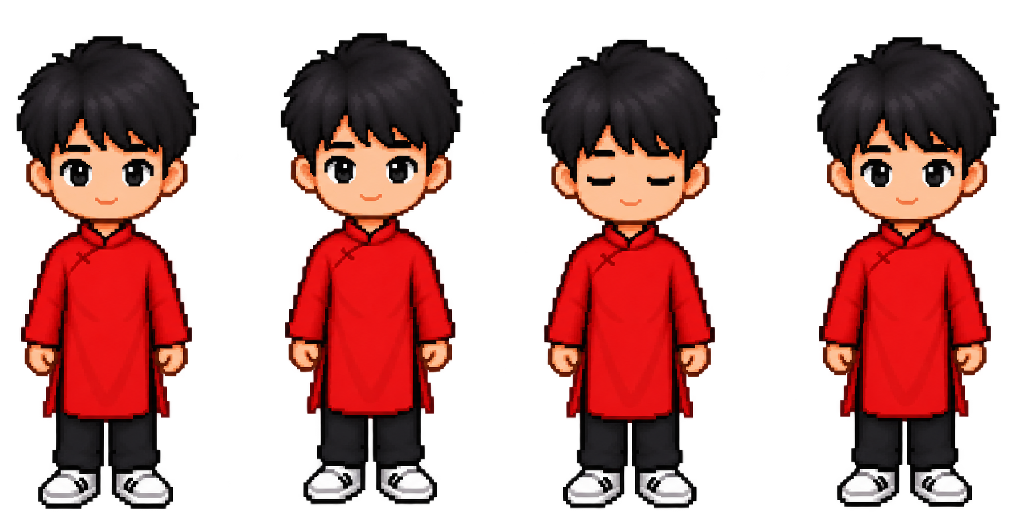
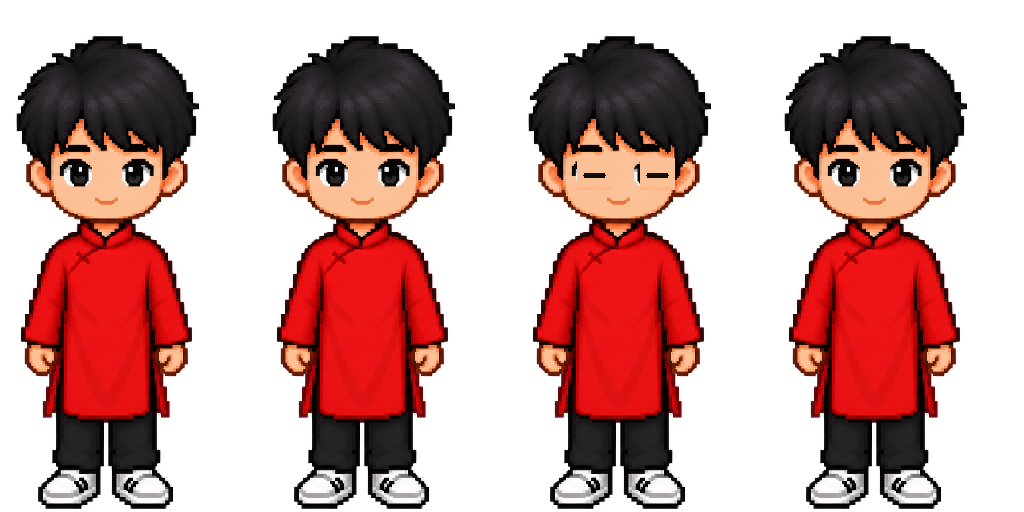
chore: update animation preview files

Changed region(s): [[0.75, 0.0625, 1.0, 1.0], [0.5, 0.0625, 0.7188, 1.0], [0.25, 0.0625, 0.4688, 1.0]]

diff --git a/src/components/character/PixelCharacter.tsx b/src/components/character/PixelCharacter.tsx
@@ -2,6 +2,7 @@ import React from 'react';
 
 export type CharacterState =
   | 'idle'
+  | 'wave'
   | 'happy'
   | 'love'
   | 'hungry'
@@ -14,7 +15,10 @@ interface PixelCharacterProps {
   className?: string;
 }
 
-const DUONG_STATE_IMAGES: Record<Exclude<CharacterState, 'idle'>, string> = {
+const DUONG_STATE_IMAGES: Record<
+  Exclude<CharacterState, 'idle' | 'wave'>,
+  string
+> = {
   happy: '/characters/male_happy.png',
   love: '/characters/male_love.png',
   hungry: '/characters/male_hungry.png',
@@ -24,40 +28,107 @@ const DUONG_STATE_IMAGES: Record<Exclude<CharacterState, 'idle'>, string> = {
 
 const IdleSprite: React.FC<{ name: string }> = ({ name }) => {
   return (
-    <div className="relative h-full w-full flex items-end justify-center overflow-hidden">
+    <div
+      className="relative h-full max-h-full overflow-hidden shrink-0"
+      style={{
+        aspectRatio: '1 / 2',
+        maxWidth: '100%',
+      }}
+      role="img"
+      aria-label={`${name} pixel character`}
+    >
       <style>{`
-        @keyframes duong-idle-sprite {
-          0%, 42% { transform: translateX(0); }
-          48%, 56% { transform: translateX(-25%); }
-          62%, 70% { transform: translateX(-50%); }
-          76%, 100% { transform: translateX(-75%); }
+        @keyframes duong-idle-blink {
+          0%, 78% {
+            background-position: 0% 50%;
+          }
+          79%, 84% {
+            background-position: 66.6666667% 50%;
+          }
+          85%, 100% {
+            background-position: 0% 50%;
+          }
         }
 
-        .duong-idle-strip {
-          width: 400%;
+        .duong-idle-frame {
+          width: 100%;
           height: 100%;
-          max-width: none;
-          object-fit: fill;
+          background-image: url('/characters/duong_idle_strip.png');
+          background-repeat: no-repeat;
+          background-size: 400% 100%;
+          background-position: 0% 50%;
           image-rendering: pixelated;
-          animation: duong-idle-sprite 2.6s steps(1, end) infinite;
-          will-change: transform;
+          animation: duong-idle-blink 3.2s steps(1, end) infinite;
+          will-change: background-position;
         }
 
         @media (prefers-reduced-motion: reduce) {
-          .duong-idle-strip {
+          .duong-idle-frame {
             animation: none;
+            background-position: 0% 50%;
           }
         }
       `}</style>
 
-      <div className="h-full w-full overflow-hidden">
-        <img
-          src="/characters/duong_idle_strip.png"
-          alt={`${name} pixel character`}
-          draggable={false}
-          className="duong-idle-strip select-none pointer-events-none"
-        />
-      </div>
+      <div className="duong-idle-frame" />
+    </div>
+  );
+};
+
+const WaveSprite: React.FC<{ name: string }> = ({ name }) => {
+  return (
+    <div
+      className="relative h-full max-h-full overflow-hidden shrink-0"
+      style={{
+        aspectRatio: '1 / 2',
+        maxWidth: '100%',
+      }}
+      role="img"
+      aria-label={`${name} đang vẫy chào`}
+    >
+      <style>{`
+        @keyframes duong-wave-frames {
+          0%, 10% {
+            background-position: 0% 50%;
+          }
+          11%, 27% {
+            background-position: 20% 50%;
+          }
+          28%, 44% {
+            background-position: 40% 50%;
+          }
+          45%, 62% {
+            background-position: 60% 50%;
+          }
+          63%, 80% {
+            background-position: 80% 50%;
+          }
+          81%, 100% {
+            background-position: 100% 50%;
+          }
+        }
+
+        .duong-wave-frame {
+          width: 100%;
+          height: 100%;
+          background-image: url('/characters/duong_wave_strip.png');
+          background-repeat: no-repeat;
+          background-size: 600% 100%;
+          background-position: 0% 50%;
+          image-rendering: pixelated;
+          animation: duong-wave-frames 2.05s steps(1, end) 1 forwards;
+          will-change: background-position;
+        }
+
+        @media (prefers-reduced-motion: reduce) {
+          .duong-wave-frame {
+            animation: none;
+            background-position: 40% 50%;
+          }
+        }
+      `}</style>
+
+      <div className="duong-wave-frame" />
     </div>
   );
 };
@@ -67,20 +138,24 @@ export const PixelCharacter: React.FC<PixelCharacterProps> = ({
   name = 'Dương',
   className = '',
 }) => {
-  if (state === 'idle') {
+  if (state === 'idle' || state === 'wave') {
     return (
       <div
-        className={`relative flex items-end justify-center ${className}`}
-        aria-label={`${name} - idle`}
+        className={`relative flex items-end justify-center overflow-hidden ${className}`}
+        aria-label={`${name} - ${state}`}
       >
-        <IdleSprite name={name} />
+        {state === 'wave' ? (
+          <WaveSprite name={name} />
+        ) : (
+          <IdleSprite name={name} />
+        )}
       </div>
     );
   }
 
   return (
     <div
-      className={`relative flex items-end justify-center ${className}`}
+      className={`relative flex items-end justify-center overflow-hidden ${className}`}
       aria-label={`${name} - ${state}`}
     >
       <img

diff --git a/src/components/character/InteractivePixelCharacter.tsx b/src/components/character/InteractivePixelCharacter.tsx
@@ -7,8 +7,11 @@ interface InteractivePixelCharacterProps {
 }
 
 const STORAGE_KEY = 'us:duong-pixel-character:v1';
+const WELCOME_SESSION_KEY = 'us:duong-wave-welcome:v1';
 const HUNGRY_AFTER_MS = 6 * 60 * 60 * 1000;
 const REACTION_DURATION_MS = 4200;
+const WELCOME_DELAY_MS = 350;
+const WELCOME_ANIMATION_MS = 2150;
 
 interface StoredCharacterState {
   lastFedAt?: number;
@@ -33,7 +36,7 @@ const writeStoredState = (state: StoredCharacterState) => {
   try {
     window.localStorage.setItem(STORAGE_KEY, JSON.stringify(state));
   } catch {
-    // localStorage is only a lightweight V1 persistence layer.
+    // localStorage chỉ là persistence nhẹ cho V1.
   }
 };
 
@@ -57,15 +60,6 @@ const getAutomaticState = (
   return 'idle';
 };
 
-const STATE_COPY: Record<CharacterState, string> = {
-  idle: 'Đang chill thôi ✨',
-  happy: 'No bụng rồi, vui ghê!',
-  love: 'Đang ngập trong tình yêu ❤',
-  hungry: 'Hình như đang đói...',
-  sleepy: 'Muộn rồi, buồn ngủ quá...',
-  sad: 'Hôm nay hơi buồn một chút.',
-};
-
 export const InteractivePixelCharacter: React.FC<
   InteractivePixelCharacterProps
 > = ({
@@ -79,7 +73,10 @@ export const InteractivePixelCharacter: React.FC<
     React.useState<CharacterState | null>(null);
   const [showActions, setShowActions] = React.useState(false);
   const [clock, setClock] = React.useState(() => Date.now());
+
   const reactionTimerRef = React.useRef<number | null>(null);
+  const welcomeStartTimerRef = React.useRef<number | null>(null);
+  const welcomeEndTimerRef = React.useRef<number | null>(null);
 
   React.useEffect(() => {
     const interval = window.setInterval(() => {
@@ -88,6 +85,40 @@ export const InteractivePixelCharacter: React.FC<
 
     return () => window.clearInterval(interval);
   }, []);
+
+  // Dương is this component. If isCurrentUser is false, Chúc is viewing.
+  // Greet once per browser-tab session, then return to the normal state.
+  React.useEffect(() => {
+    if (isCurrentUser || typeof window === 'undefined') return;
+
+    try {
+      if (window.sessionStorage.getItem(WELCOME_SESSION_KEY)) {
+        return;
+      }
+      window.sessionStorage.setItem(WELCOME_SESSION_KEY, '1');
+    } catch {
+      // If sessionStorage is blocked, the greeting still works.
+    }
+
+    welcomeStartTimerRef.current = window.setTimeout(() => {
+      setShowActions(false);
+      setTemporaryState('wave');
+    }, WELCOME_DELAY_MS);
+
+    welcomeEndTimerRef.current = window.setTimeout(() => {
+      setTemporaryState(null);
+      setClock(Date.now());
+    }, WELCOME_DELAY_MS + WELCOME_ANIMATION_MS);
+
+    return () => {
+      if (welcomeStartTimerRef.current !== null) {
+        window.clearTimeout(welcomeStartTimerRef.current);
+      }
+      if (welcomeEndTimerRef.current !== null) {
+        window.clearTimeout(welcomeEndTimerRef.current);
+      }
+    };
+  }, [isCurrentUser]);
 
   React.useEffect(() => {
     return () => {
@@ -170,22 +201,14 @@ export const InteractivePixelCharacter: React.FC<
       <button
         type="button"
         onClick={() => setShowActions((value) => !value)}
-        className="absolute inset-0 pt-12 pb-16 w-full flex flex-col items-center justify-end cursor-pointer touch-manipulation"
+        className="absolute inset-0 pt-14 pb-6 w-full flex items-center justify-center cursor-pointer touch-manipulation"
         aria-label={`Tương tác với ${name}`}
       >
-        <div className="mb-1 rounded-full bg-white/90 border border-rose-100 px-3 py-1 text-[11px] font-medium text-slate-600 shadow-xs backdrop-blur-sm">
-          {STATE_COPY[state]}
-        </div>
-
         <PixelCharacter
           state={state}
           name={name}
           className="h-48 sm:h-56 w-full transition-transform duration-200 active:scale-95"
         />
-
-        <span className="mt-1 text-[10px] text-slate-400">
-          Chạm vào nhân vật
-        </span>
       </button>
 
       <div
